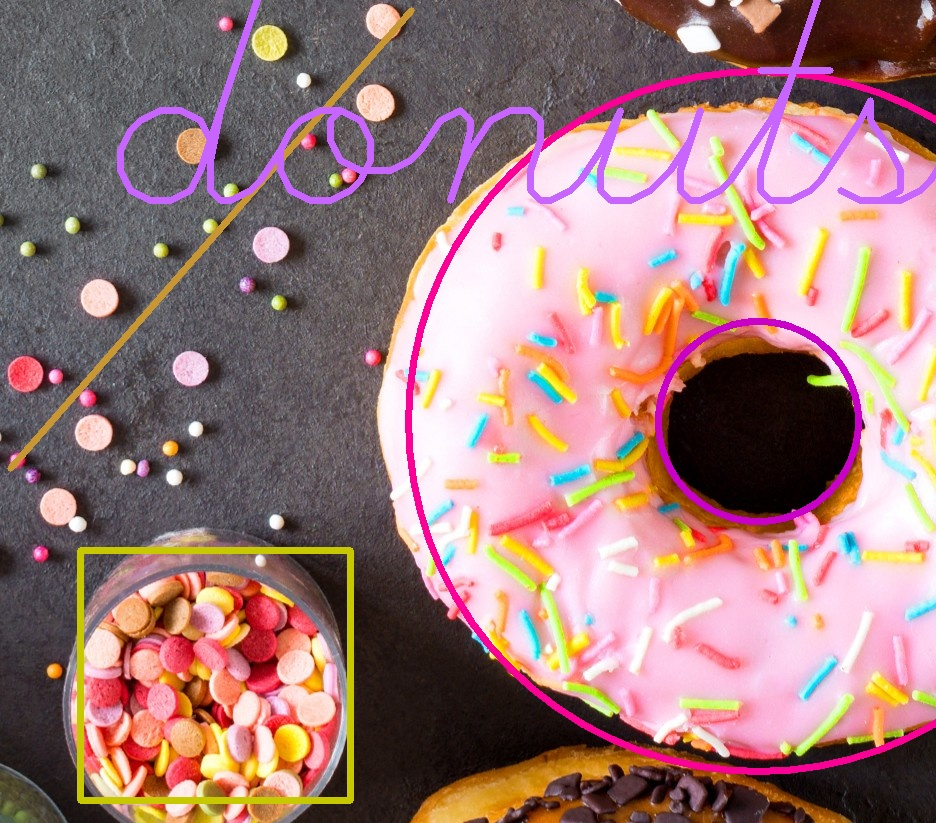
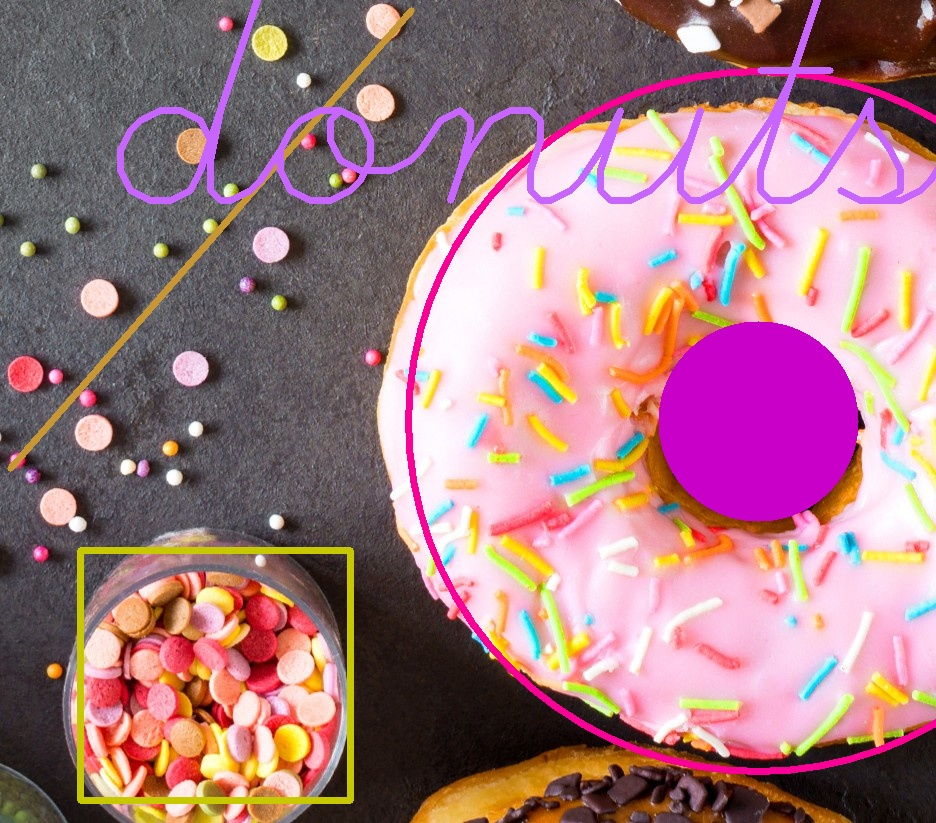
fill shape

Changed region(s): [[0.6816, 0.3645, 0.9295, 0.6379]]

diff --git a/color_convert.py b/color_convert.py
@@ -62,7 +62,7 @@ cv2.rectangle(draw_img, (80, 550), (350, 800), (0, 200, 200), 5)
 
 # (target_img, center cord., radius, color, border-thickness)
 cv2.circle(draw_img, (width//2 + 290, height//2 + 10), 350, (150, 0, 250), 5)
-cv2.circle(draw_img, (width//2 + 290, height//2 + 10), 100, (200, 0, 200), 5)
+cv2.circle(draw_img, (width//2 + 290, height//2 + 10), 100, (200, 0, 200), -1)
 
 # note that border-thickness = -1 means to fill up the shape
 
